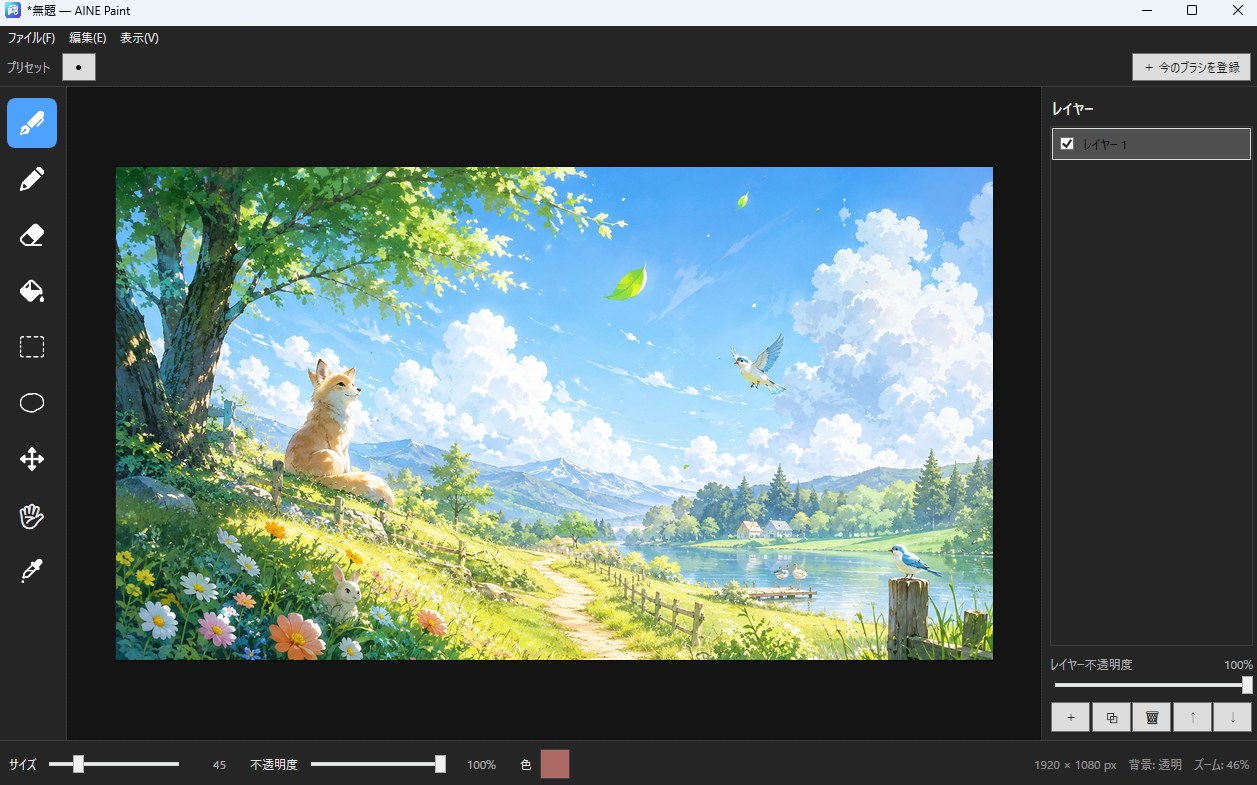
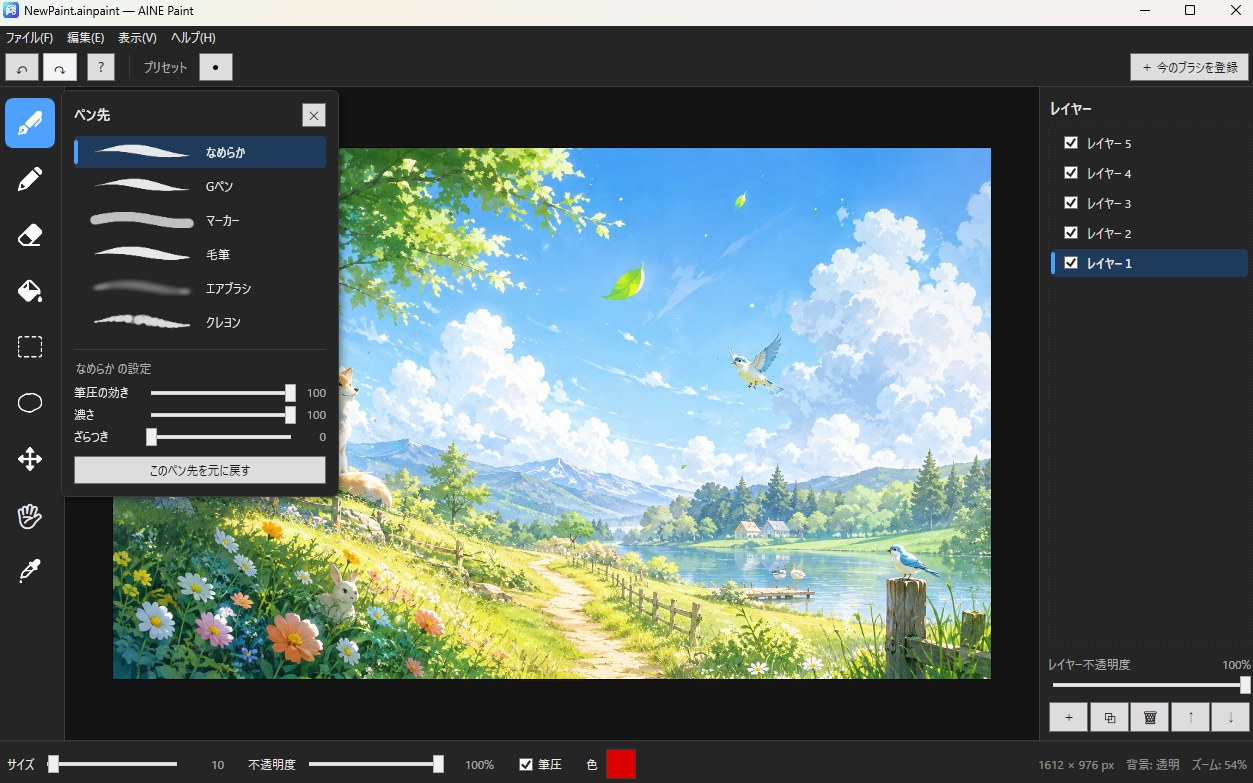
docs: AINE Paint を v0.4.0 に更新
- バージョン表記と機能リストを更新
- スクリーンショットをペン先一覧が写ったものに差し替え

diff --git a/index.html b/index.html
@@ -148,7 +148,7 @@
         </div>
 
         <figure class="paint-figure">
-          <img src="./assets/img/aine-paint.jpg" alt="AINE Paint の画面。左にツール、中央のキャンバスに風景イラスト、右にレイヤー一覧" width="1257" height="785">
+          <img src="./assets/img/aine-paint.jpg" alt="AINE Paint の画面。左のツール列の隣にペン先の一覧が開き、6種類の線の見本が並んでいる。中央のキャンバスに風景イラスト、右にレイヤー一覧" width="1253" height="783">
           <figcaption>AINE Paint v0.4.0 — Windows 10 / 11</figcaption>
         </figure>
       </div>
